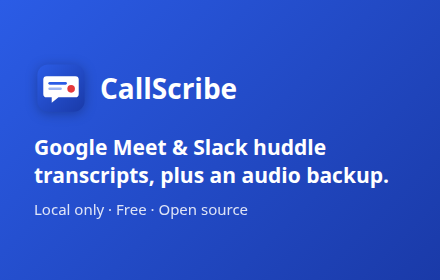
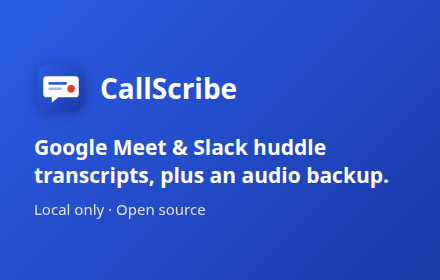
Store assets: drop 'Free' (Web Store policy Red Nickel) and 'new' from tiles, screenshot and description

Changed region(s): [[0.2659, 0.7143, 0.5614, 0.7714]]

diff --git a/store/shot1.html b/store/shot1.html
@@ -7,7 +7,7 @@
       <li>Starts by itself when you join</li>
       <li>Captions stay hidden on screen</li>
       <li>Files stay on your computer</li>
-      <li>Free and open source</li>
+      <li>Open source (MIT)</li>
     </ul>
   </div>
   <div class="stage">
@@ -15,7 +15,7 @@
       <h3>Weekly design review</h3>
       <div class="meta">Google Meet · Nov 4, 18:23 · 00:42:10<br>Speakers: Alice Nguyen, Sahaj Jain, Minh Tran</div>
       <div class="turn"><span class="who">Alice Nguyen</span><span class="ts">00:00:04</span><br>Okay, let us start the weekly design review. First item is the landing page.</div>
-      <div class="turn"><span class="who">Sahaj Jain</span><span class="ts">00:00:11</span><br>The new hero image is finished and the copy was approved by the client yesterday.</div>
+      <div class="turn"><span class="who">Sahaj Jain</span><span class="ts">00:00:11</span><br>The updated hero image is finished and the copy was approved by the client yesterday.</div>
       <div class="turn"><span class="who">Minh Tran</span><span class="ts">00:00:19</span><br>The mobile menu still overlaps the logo on small screens, so that needs a fix.</div>
     </div>
     <div class="card popup" style="right:0; top:400px;">

diff --git a/store/promo-small.html b/store/promo-small.html
@@ -1,5 +1,5 @@
 <div style="width:440px;height:280px;background:linear-gradient(135deg,#2b5ce6,#1a3aa8);color:#fff;display:flex;flex-direction:column;justify-content:center;padding:34px;">
   <div style="display:flex;align-items:center;gap:12px;font-weight:700;font-size:28px;"><img src="{{ICON}}" width="54" style="filter:drop-shadow(0 2px 6px rgba(0,0,0,.25))">CallScribe</div>
   <div style="font-size:21px;line-height:1.35;margin-top:18px;font-weight:600;">Google Meet &amp; Slack huddle transcripts, plus an audio backup.</div>
-  <div style="font-size:15px;opacity:.85;margin-top:10px;">Local only · Free · Open source</div>
+  <div style="font-size:15px;opacity:.85;margin-top:10px;">Local only · Open source</div>
 </div>

diff --git a/store/promo-marquee.html b/store/promo-marquee.html
@@ -3,6 +3,6 @@
   <div>
     <div style="font-weight:800;font-size:64px;letter-spacing:-0.02em;">CallScribe</div>
     <div style="font-size:34px;line-height:1.3;margin-top:14px;font-weight:600;max-width:820px;">Google Meet &amp; Slack huddle transcripts, plus an audio backup.</div>
-    <div style="font-size:24px;opacity:.85;margin-top:16px;">Local only · Free · Open source</div>
+    <div style="font-size:24px;opacity:.85;margin-top:16px;">Local only · Open source</div>
   </div>
 </div>

diff --git a/store/listing.md b/store/listing.md
@@ -26,7 +26,7 @@ FEATURES
 
 PRIVATE BY DESIGN
 • No account, no server, no analytics. Nothing is uploaded anywhere.
-• Free and open source (MIT): https://github.com/SahajJain01/callscribe
+• Open source (MIT): https://github.com/SahajJain01/callscribe
 
 NOTES
 • Transcripts come from the platform's own captions, so they only cover the time captions were on. The audio backup covers everything.
